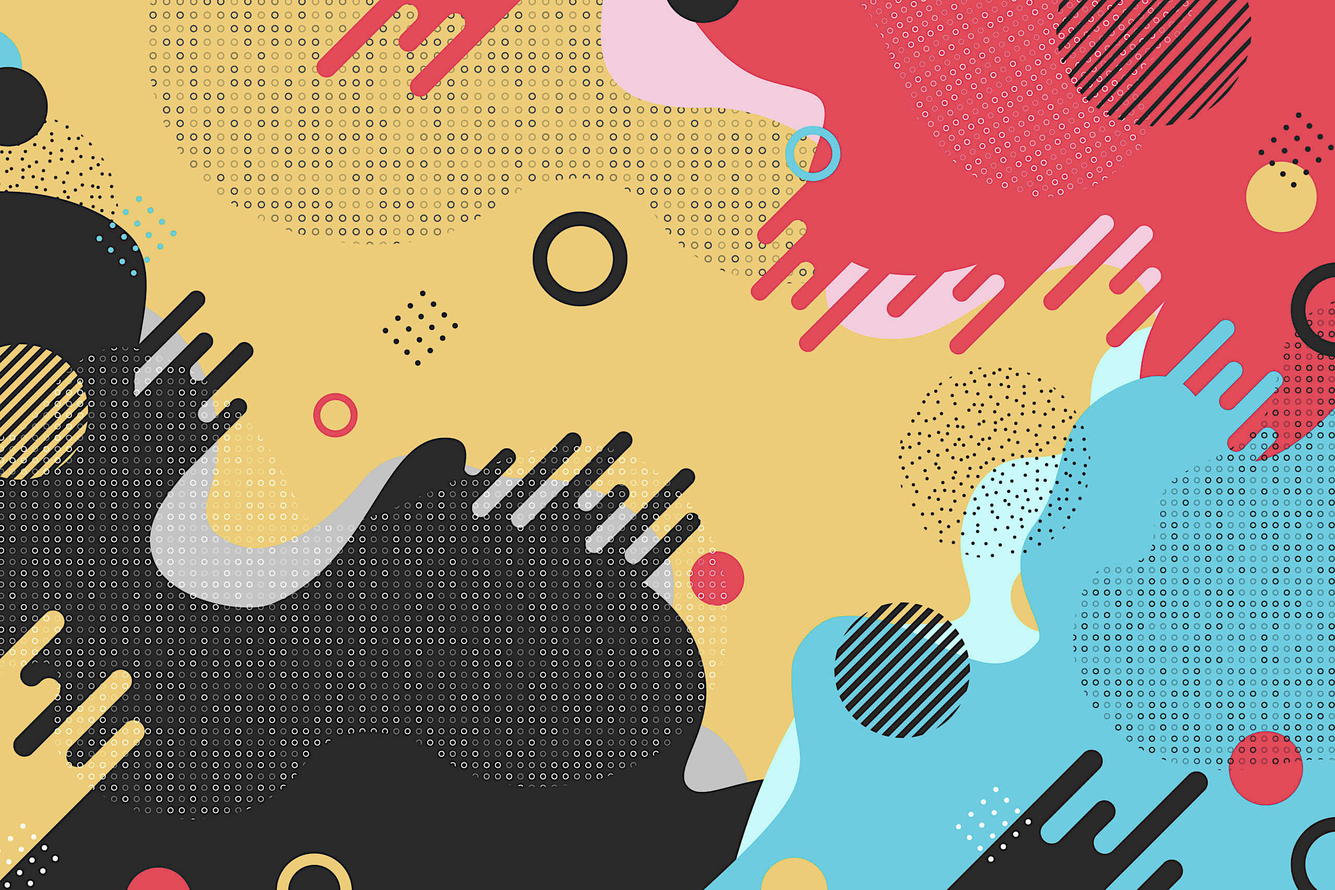
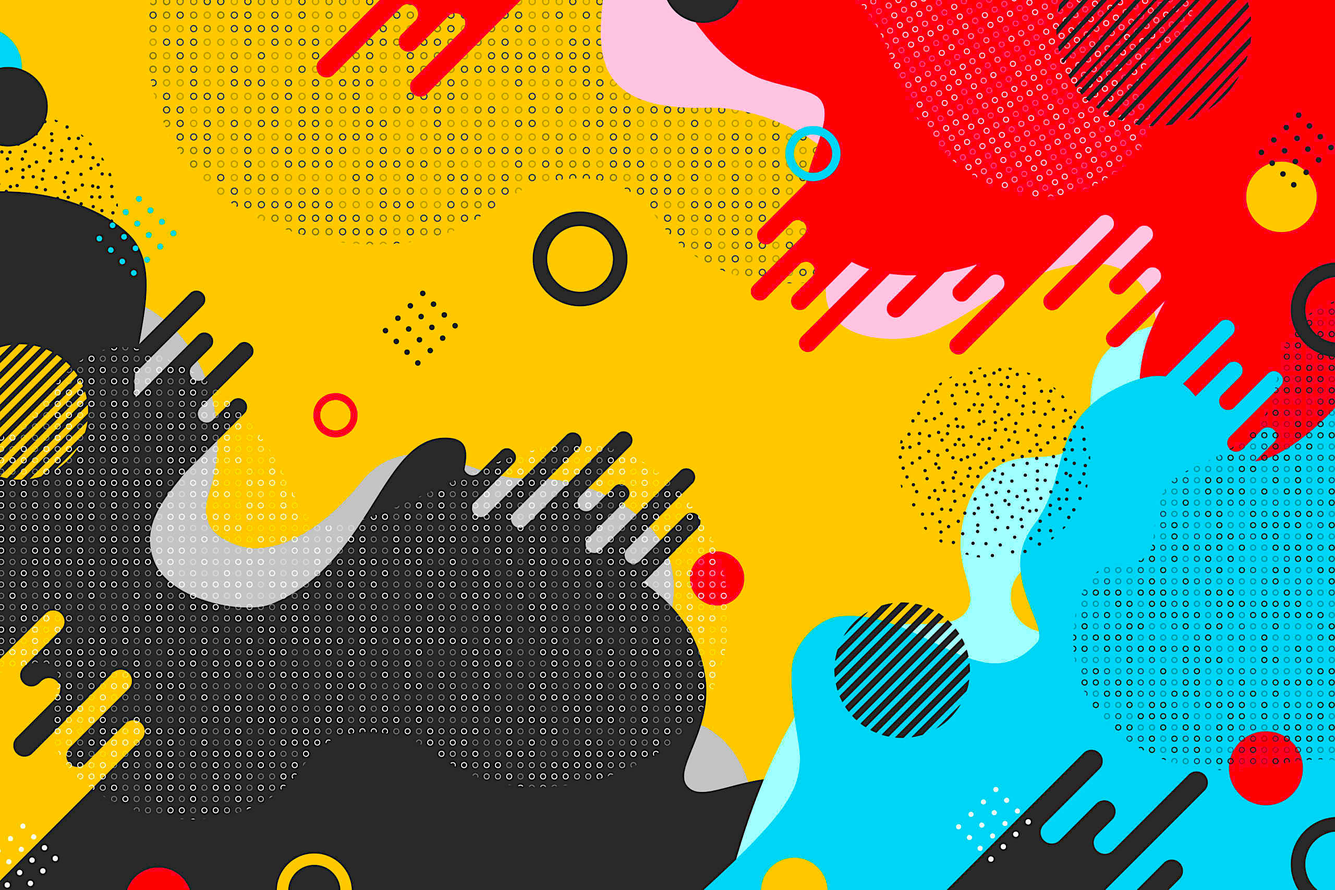
updated colors

diff --git a/src/App.svelte b/src/App.svelte
@@ -2,9 +2,9 @@
     import Game from './components/Game.svelte';
     
     let defaultPlayers = [
-		{ color: '#E6CC83', keyL: 'q', keyR: 'w' },
-		{ color: '#85CADD', keyL: 'ArrowLeft', keyR: 'ArrowRight' },
-		{ color: '#D2565C', keyL: 'x', keyR: 'c' },
+		{ color: '#F8CA00', keyL: 'q', keyR: 'w' },
+		{ color: '#1AD2F2', keyL: 'ArrowLeft', keyR: 'ArrowRight' },
+		{ color: '#FD0123', keyL: 'x', keyR: 'c' },
 		{ color: '#2A2A2A', keyL: 'i', keyR: 'o' },
 	];
 </script>

diff --git a/src/snake.js b/src/snake.js
@@ -5,8 +5,8 @@ export default class Snake extends Path2D{
         this.posX = posX;
         this.posY = posY;
         this.ang = ang;
-        this.speed = .2;
-        this.lineWidth = 5;
+        this.speed = .1;
+        this.lineWidth = 2.5;
     }
 
     updatePosition(dt) {
